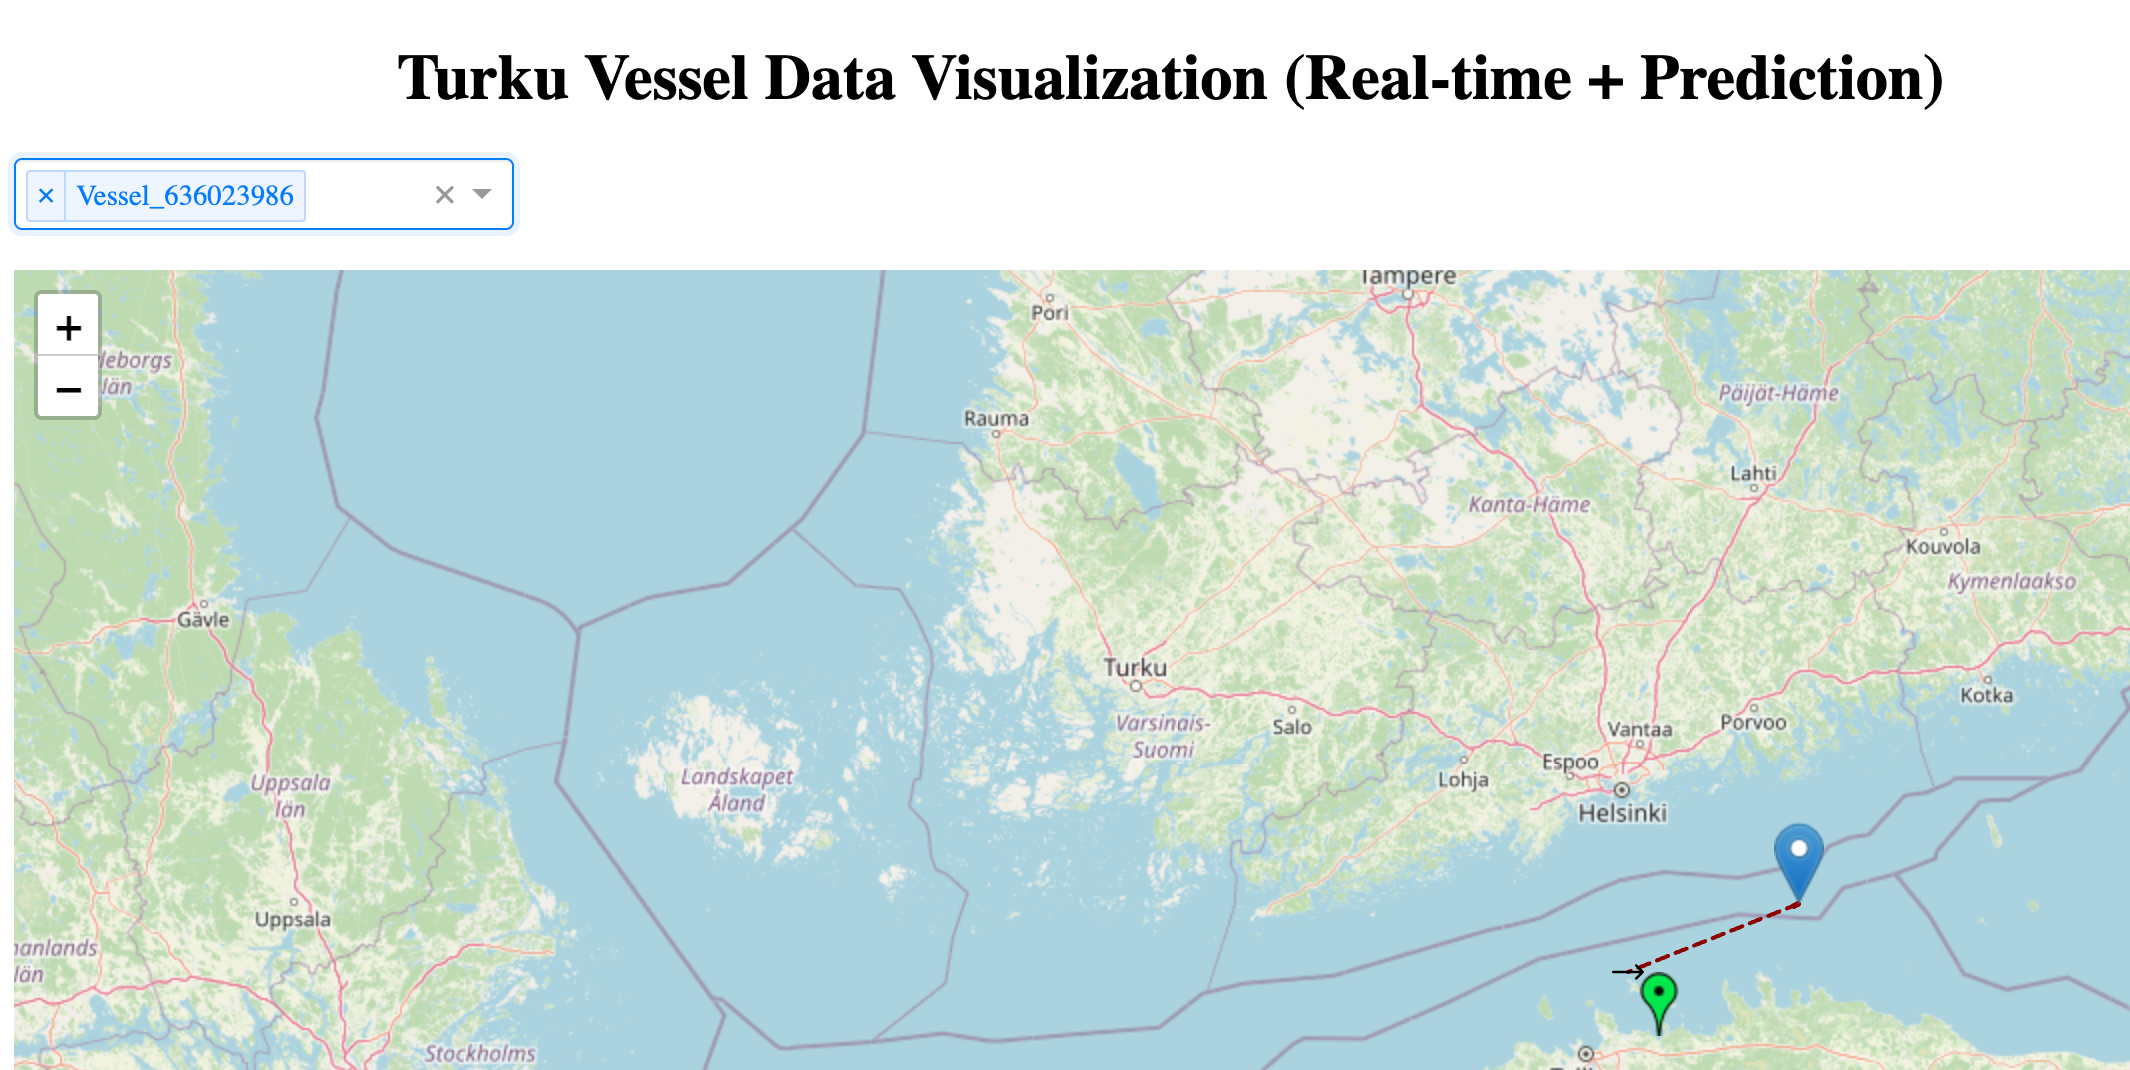
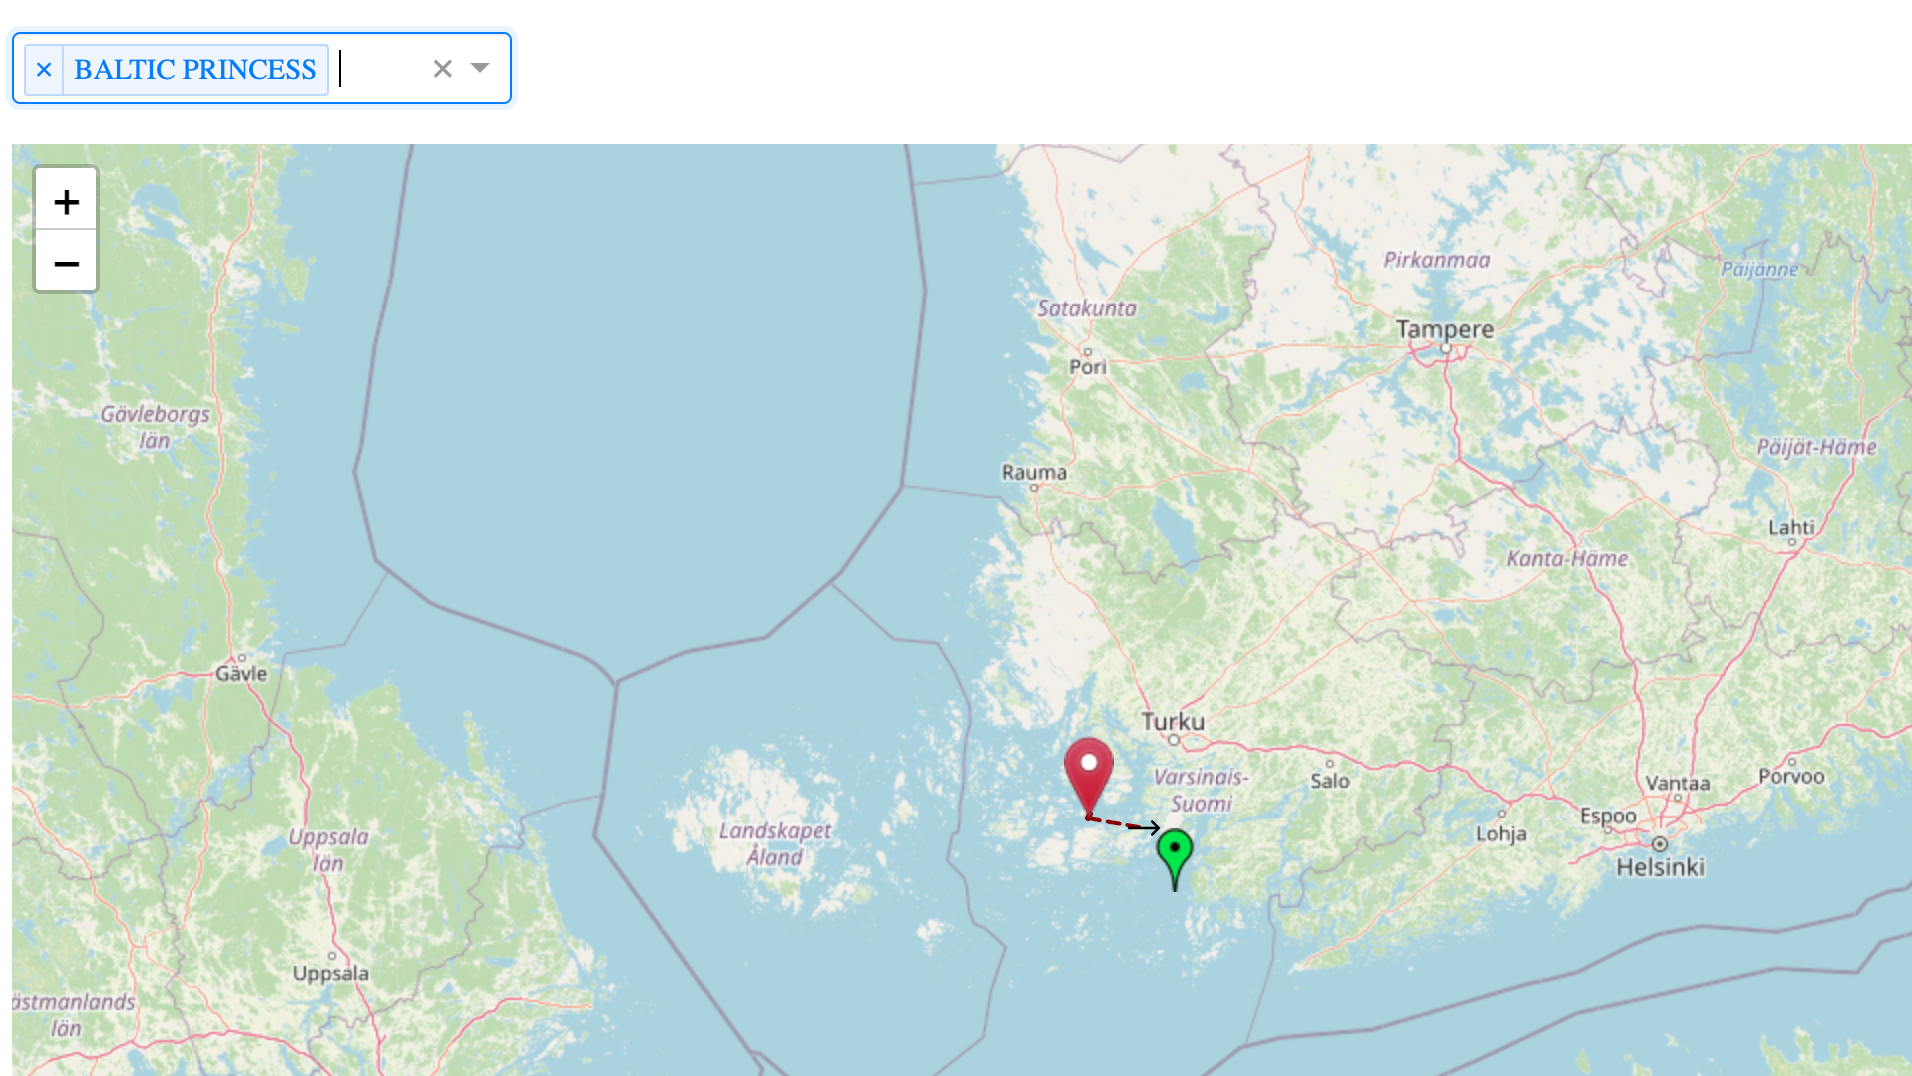
Update vessel visualization: all vessels, prediction, hover info, legend, dropdown

diff --git a/source_code/2b_Visualize_prediction.py b/source_code/2b_Visualize_prediction.py
@@ -1,15 +1,24 @@
+import psycopg2
+
+def connect_db():
+    return psycopg2.connect(
+        host="localhost",
+        dbname="ais_data",
+        user="group_3",
+        password="12345678"
+    )
+
 import dash
 from dash import dcc, html, Input, Output
 import dash_leaflet as dl
 import pandas as pd
 import numpy as np
 import math
-import json
 import joblib
 import os
 
 # === Load Model ===
-model = joblib.load("coding/trajectory_rf_model.pkl")
+model = joblib.load("source_code/trajectory_rf_model.pkl")
 
 # === Dash App Initialization ===
 app = dash.Dash(__name__)
@@ -28,16 +37,20 @@ def calculate_arrow_points(lat, lon, heading, distance=0.02, arrow_width=0.007):
     right_lon = end_lon + arrow_width * math.cos(right_angle)
     return [[lat, lon], [end_lat, end_lon], [left_lat, left_lon], [right_lat, right_lon], [end_lat, end_lon]]
 
-def predict_position(model, row):
-    input_features = np.array([
-        row["latitude"],
-        row["longitude"],
-        row["velocity"],
-        row["heading"],
-        row["cog"]
-    ]).reshape(1, -1)
-    pred = model.predict(input_features)[0]
-    return pred[0], pred[1]
+def get_latest_vessels():
+    conn = connect_db()
+    query = """
+        SELECT DISTINCT ON (vessel_id)
+            vessel_id, latitude, longitude, velocity AS sog, heading, cog,
+            vessel_name, destination, type, timestamp
+        FROM ais_vessel_turku
+        WHERE latitude IS NOT NULL AND longitude IS NOT NULL
+        ORDER BY vessel_id, timestamp DESC
+        LIMIT 50;
+    """
+    df = pd.read_sql_query(query, conn)
+    conn.close()
+    return df
 
 def get_marker_icon(speed):
     if speed > 15:
@@ -54,7 +67,19 @@ app.layout = html.Div([
         dcc.Dropdown(id="vessel-type-dropdown", placeholder="Select Vessel", multi=True, style={"width": "250px"}),
         dcc.Interval(id="interval", interval=10*1000, n_intervals=0)
     ], style={"display": "flex", "gap": "15px", "marginBottom": "20px", "alignItems": "center"}),
+
     dl.Map(id="map", center=[60.44, 22.25], zoom=7, style={'height': '600px'}),
+
+    html.Div([
+        html.Div("🟥 >15 knots", style={"color": "red"}),
+        html.Div("🟧 5–15 knots", style={"color": "orange"}),
+        html.Div("🟦 <5 knots", style={"color": "blue"}),
+        html.Div("🟢 Prediction (5min)", style={"color": "green"})
+    ], style={
+        "position": "absolute", "top": "10px", "right": "10px",
+        "backgroundColor": "white", "padding": "10px", "borderRadius": "8px",
+        "boxShadow": "0px 0px 5px rgba(0,0,0,0.3)", "zIndex": "999"
+    })
 ])
 
 # === Callback ===
@@ -65,52 +90,52 @@ app.layout = html.Div([
     Input("vessel-type-dropdown", "value")
 )
 def update_map(n_intervals, selected_vessels):
-    json_path = "realtime_data/latest_vessels.json"
-    if not os.path.exists(json_path):
+    df = get_latest_vessels()
+
+    if df.empty:
         return [dl.TileLayer()], []
 
-    with open(json_path, "r") as f:
-        data = json.load(f)
-
-    df = pd.DataFrame.from_dict(data, orient="index")
-    df = df.dropna(subset=["latitude", "longitude", "cog", "heading", "velocity"])
-    df = df[df["velocity"] > 0]
-
+    df["vessel_name"] = df["vessel_name"].fillna("Unknown")
     vessel_options = [{"label": name, "value": name} for name in df["vessel_name"].unique()]
     if selected_vessels:
         df = df[df["vessel_name"].isin(selected_vessels)]
 
     map_layers = [dl.TileLayer()]
+
     for _, row in df.iterrows():
         lat, lon = row["latitude"], row["longitude"]
-        heading, cog, speed = row["heading"], row["cog"], row["velocity"]
+        heading, cog, speed = row["heading"], row["cog"], row["sog"]
         name = row["vessel_name"]
+        dest = row["destination"]
+        vtype = row["type"]
+        ts = row["timestamp"]
 
-        # Current Position Marker
         marker = dl.Marker(
             position=[lat, lon],
             icon=dict(iconUrl=get_marker_icon(speed), iconSize=[25, 41], iconAnchor=[12, 41]),
-            children=dl.Popup(f"{name}<br>Speed: {speed:.1f} knots<br>Heading: {heading}")
+            children=[
+                dl.Tooltip(f"{name}"),
+                dl.Popup(f"⛴ {name}<br>🏁 {dest}<br>⚙ Type: {vtype}<br>🕒 {ts}<br>🚀 Speed: {speed}")
+            ]
         )
 
-        # Heading Arrow (small arrow shape)
         arrow = dl.Polygon(
             positions=calculate_arrow_points(lat, lon, heading),
             color="darkred", fill=True, fillOpacity=0.9
         )
 
         try:
-            # Predict Position
-            pred_lat, pred_lon = predict_position(model, row)
+            if np.isnan(speed) or np.isnan(cog) or np.isnan(heading):
+                raise ValueError("Missing speed / heading / cog, skipping prediction")
 
-            # Prediction marker
+            pred_lat, pred_lon = model.predict([[lat, lon, speed, heading, cog]])[0]
+
             predicted_point = dl.Marker(
                 position=[pred_lat, pred_lon],
                 icon=dict(iconUrl="https://maps.gstatic.com/mapfiles/ms2/micons/green-dot.png"),
                 children=dl.Popup(f"[Prediction] {name}")
             )
 
-            # Dotted line from current to prediction
             direction_line = dl.Polyline(
                 positions=[[lat, lon], [pred_lat, pred_lon]],
                 color="darkred",
@@ -118,7 +143,6 @@ def update_map(n_intervals, selected_vessels):
                 dashArray='6,4'
             )
 
-            # Optional: small arrow icon at predicted point
             arrow_icon = dl.Marker(
                 position=[pred_lat, pred_lon],
                 icon=dict(
@@ -129,7 +153,8 @@ def update_map(n_intervals, selected_vessels):
             )
 
             map_layers.extend([marker, arrow, predicted_point, direction_line, arrow_icon])
-        except:
+        except Exception as e:
+            print(f"[skip prediction] {name}: {e}")
             map_layers.extend([marker, arrow])
 
     return map_layers, vessel_options
@@ -137,3 +162,4 @@ def update_map(n_intervals, selected_vessels):
 # === Run App ===
 if __name__ == '__main__':
     app.run_server(debug=True)
+
